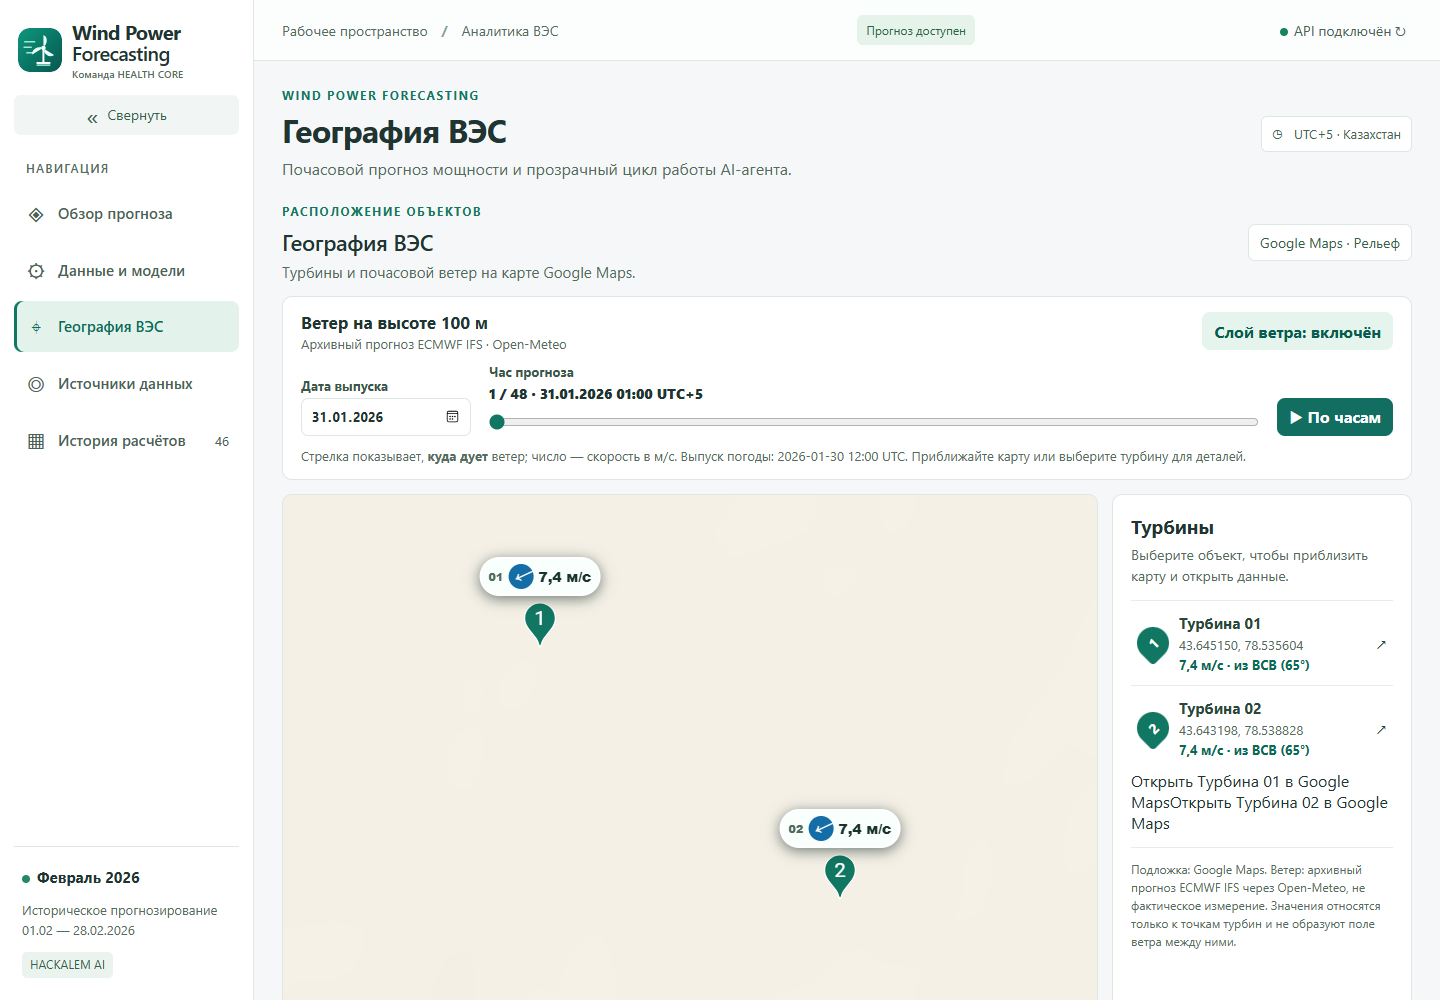
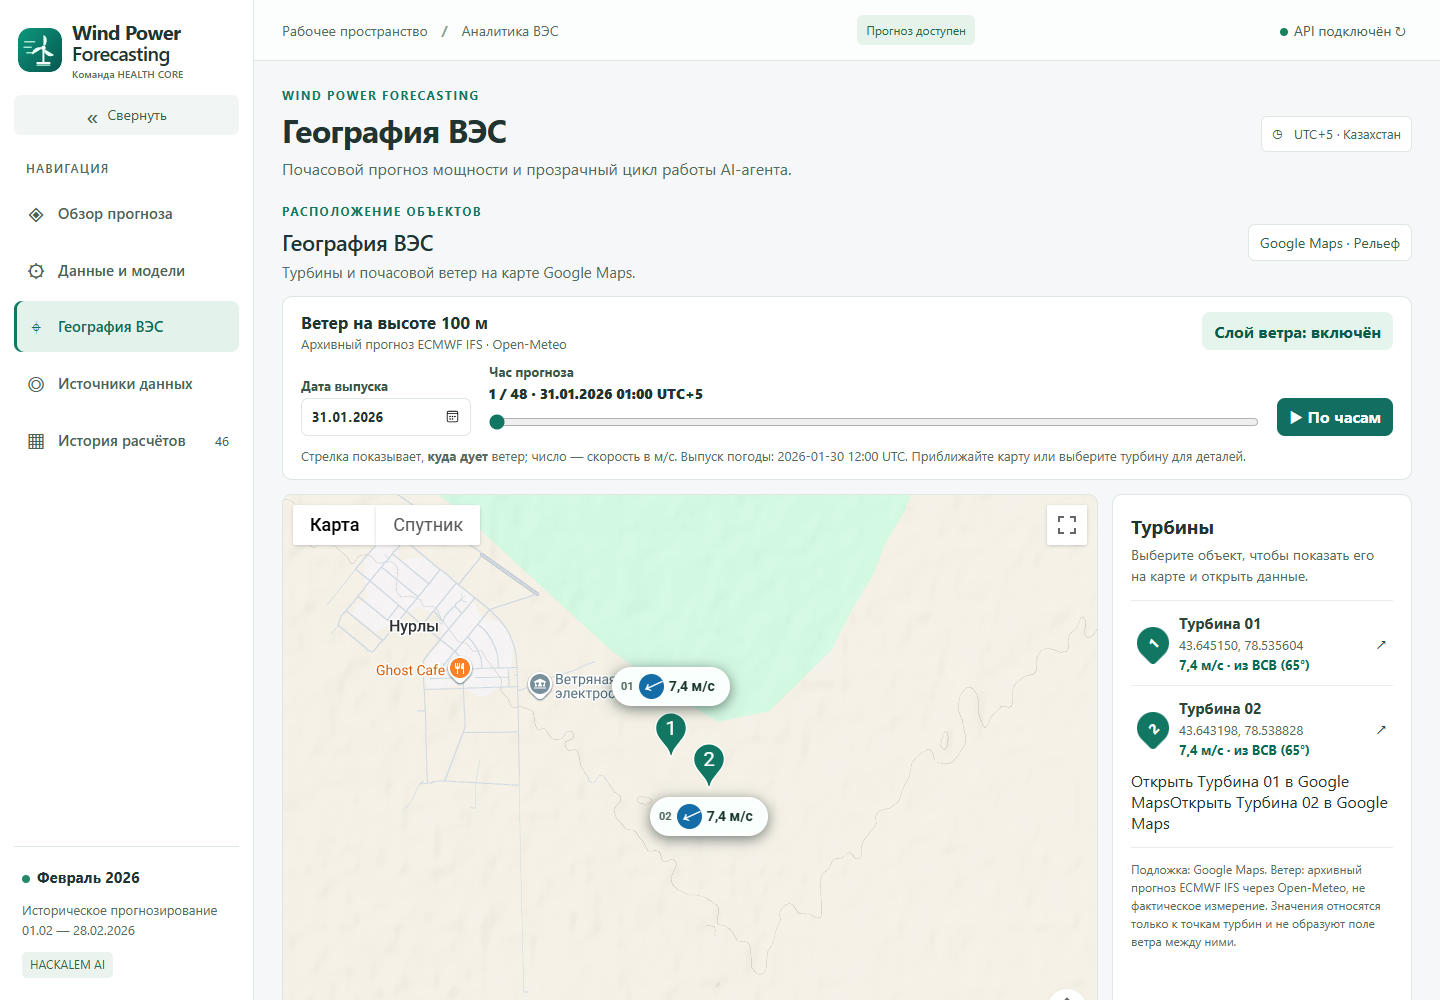
Показать рельеф и обе турбины на карте и в README

diff --git a/frontend/src/GeographyMap.js b/frontend/src/GeographyMap.js
@@ -44,6 +44,7 @@ export default {
     const turbines = ref([])
     const loading = ref(true)
     const error = ref('')
+    const mapLayer = ref('Рельеф')
     const windDate = ref(props.initialDate)
     const windHour = ref(1)
     const windEnabled = ref(true)
@@ -146,7 +147,7 @@ export default {
     async function focusTurbine(turbine) {
       if (!map) return
       map.panTo({ lat: turbine.latitude, lng: turbine.longitude })
-      map.setZoom(17)
+      map.setZoom(map.getMapTypeId?.() === 'terrain' ? 14 : 17)
       const marker = markers.find(item => item.turbine.id === turbine.id)
       if (marker) {
         infoWindow.setContent(marker.info)
@@ -176,9 +177,10 @@ export default {
         }
         map = new Map(mapElement.value, {
           center,
-          zoom: 16,
+          zoom: 14,
           mapId: demoMapId,
           mapTypeId: maps.MapTypeId.TERRAIN,
+          maxZoom: 14,
           mapTypeControl: true,
           mapTypeControlOptions: { mapTypeIds: [maps.MapTypeId.TERRAIN, maps.MapTypeId.ROADMAP, maps.MapTypeId.SATELLITE] },
           streetViewControl: false,
@@ -228,6 +230,12 @@ export default {
         if (typeof map.addListener === 'function') {
           mapListeners.push(map.addListener('zoom_changed', renderWind))
           mapListeners.push(map.addListener('heading_changed', renderWind))
+          mapListeners.push(map.addListener('maptypeid_changed', () => {
+            const type = map.getMapTypeId()
+            mapLayer.value = { terrain: 'Рельеф', roadmap: 'Карта', satellite: 'Спутник' }[type] || 'Карта'
+            map.setOptions({ maxZoom: type === maps.MapTypeId.TERRAIN ? 14 : 20 })
+            if (type === maps.MapTypeId.TERRAIN && map.getZoom() > 14) map.setZoom(14)
+          }))
         }
         void loadWind()
       } catch (reason) {
@@ -248,7 +256,7 @@ export default {
     })
 
     return {
-      mapElement, turbines, loading, error, focusTurbine,
+      mapElement, turbines, loading, error, mapLayer, focusTurbine,
       windDate, windHour, windEnabled, windLoading, windError, windPlaying,
       windReady, selectedTime, runTime, windAt, speedText, compassFrom,
       loadWind, toggleWind, togglePlayback
@@ -258,7 +266,7 @@ export default {
     <section class="geo-page">
       <div class="geo-intro">
         <div><p class="eyebrow">РАСПОЛОЖЕНИЕ ОБЪЕКТОВ</p><h2>География ВЭС</h2><p>Турбины и почасовой ветер на карте Google Maps.</p></div>
-        <span class="geo-provider">Google Maps · Рельеф</span>
+        <span class="geo-provider">Google Maps · {{mapLayer}}</span>
       </div>
       <div v-if="error" class="notice error" role="alert">{{error}}</div>
       <div v-else-if="loading" class="notice" role="status"><span class="spinner"></span> Загружаем координаты и карту…</div>
@@ -280,7 +288,7 @@ export default {
         <div ref="mapElement" class="geo-map" role="region" aria-label="Карта расположения турбин"><span v-if="!loading && error">Карта недоступна. Координаты и ссылки на объекты — справа.</span></div>
         <aside class="geo-list panel">
           <h3>Турбины</h3>
-          <p class="geo-hint">Выберите объект, чтобы приблизить карту и открыть данные.</p>
+          <p class="geo-hint">Выберите объект, чтобы показать его на карте и открыть данные.</p>
           <button v-for="turbine in turbines" :key="turbine.id" class="geo-turbine" @click="focusTurbine(turbine)">
             <span class="geo-pin">{{turbine.id}}</span><span class="geo-turbine-copy"><strong>{{turbine.name}}</strong><small>{{turbine.latitude.toFixed(6)}}, {{turbine.longitude.toFixed(6)}}</small><small v-if="windEnabled && windAt(turbine)" class="geo-turbine-wind">{{speedText(windAt(turbine).speed)}} м/с · из {{compassFrom(windAt(turbine).fromDegrees)}} ({{Math.round(windAt(turbine).fromDegrees)}}°)</small></span><span aria-hidden="true">↗</span>
           </button>
